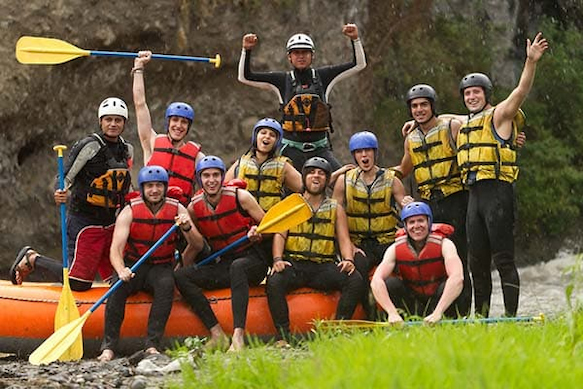
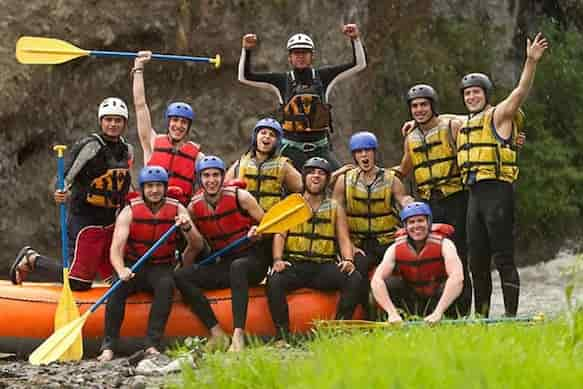
Update navigation links for clarity and consistency

diff --git a/wwr/about.html b/wwr/about.html
@@ -16,9 +16,9 @@
         <img src="images/z-wwr-blue.jpg" alt="WWR logo">
         <nav>
             <a href="index.html">Home</a>
-            <a href="about.html">About</a>
+            <a href="about.html">Us</a>
             <a href="trips.html">Trips</a>
-            <a href="contact.html">Contact</a>
+            <a href="contact.html">Contact Us</a>
         </nav>
 
     </header>
